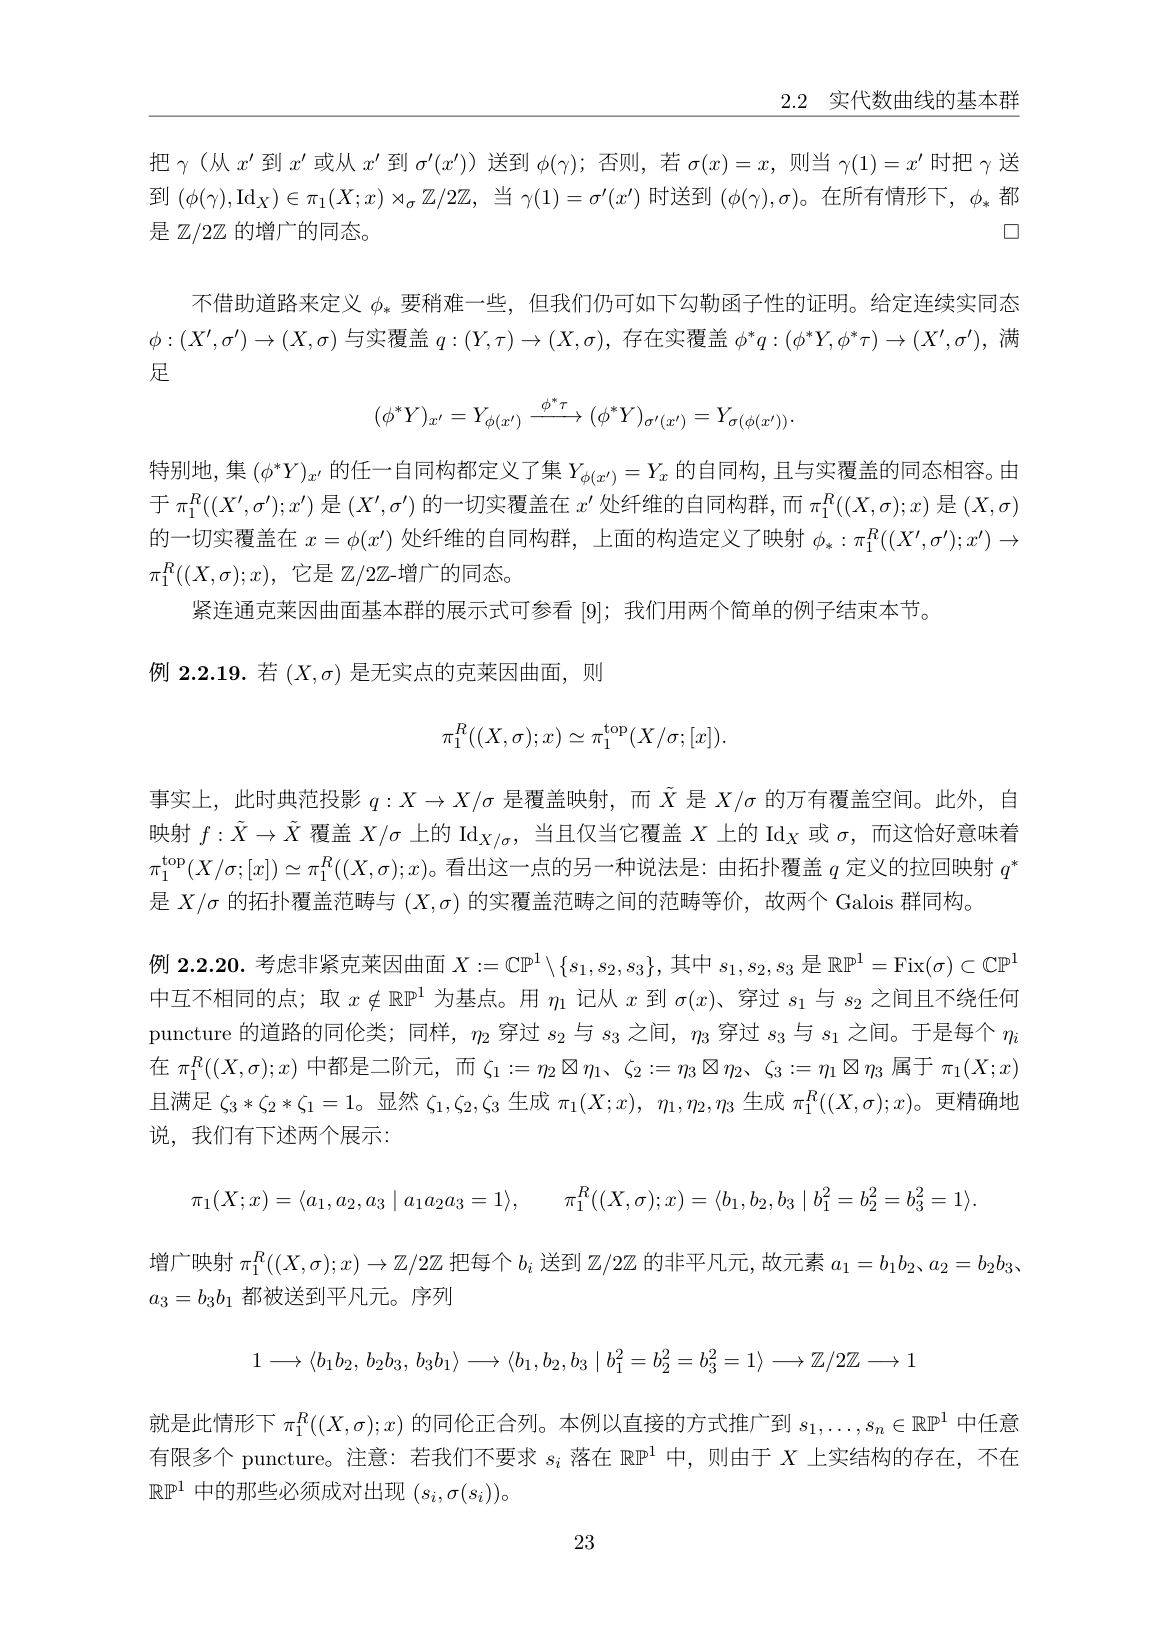
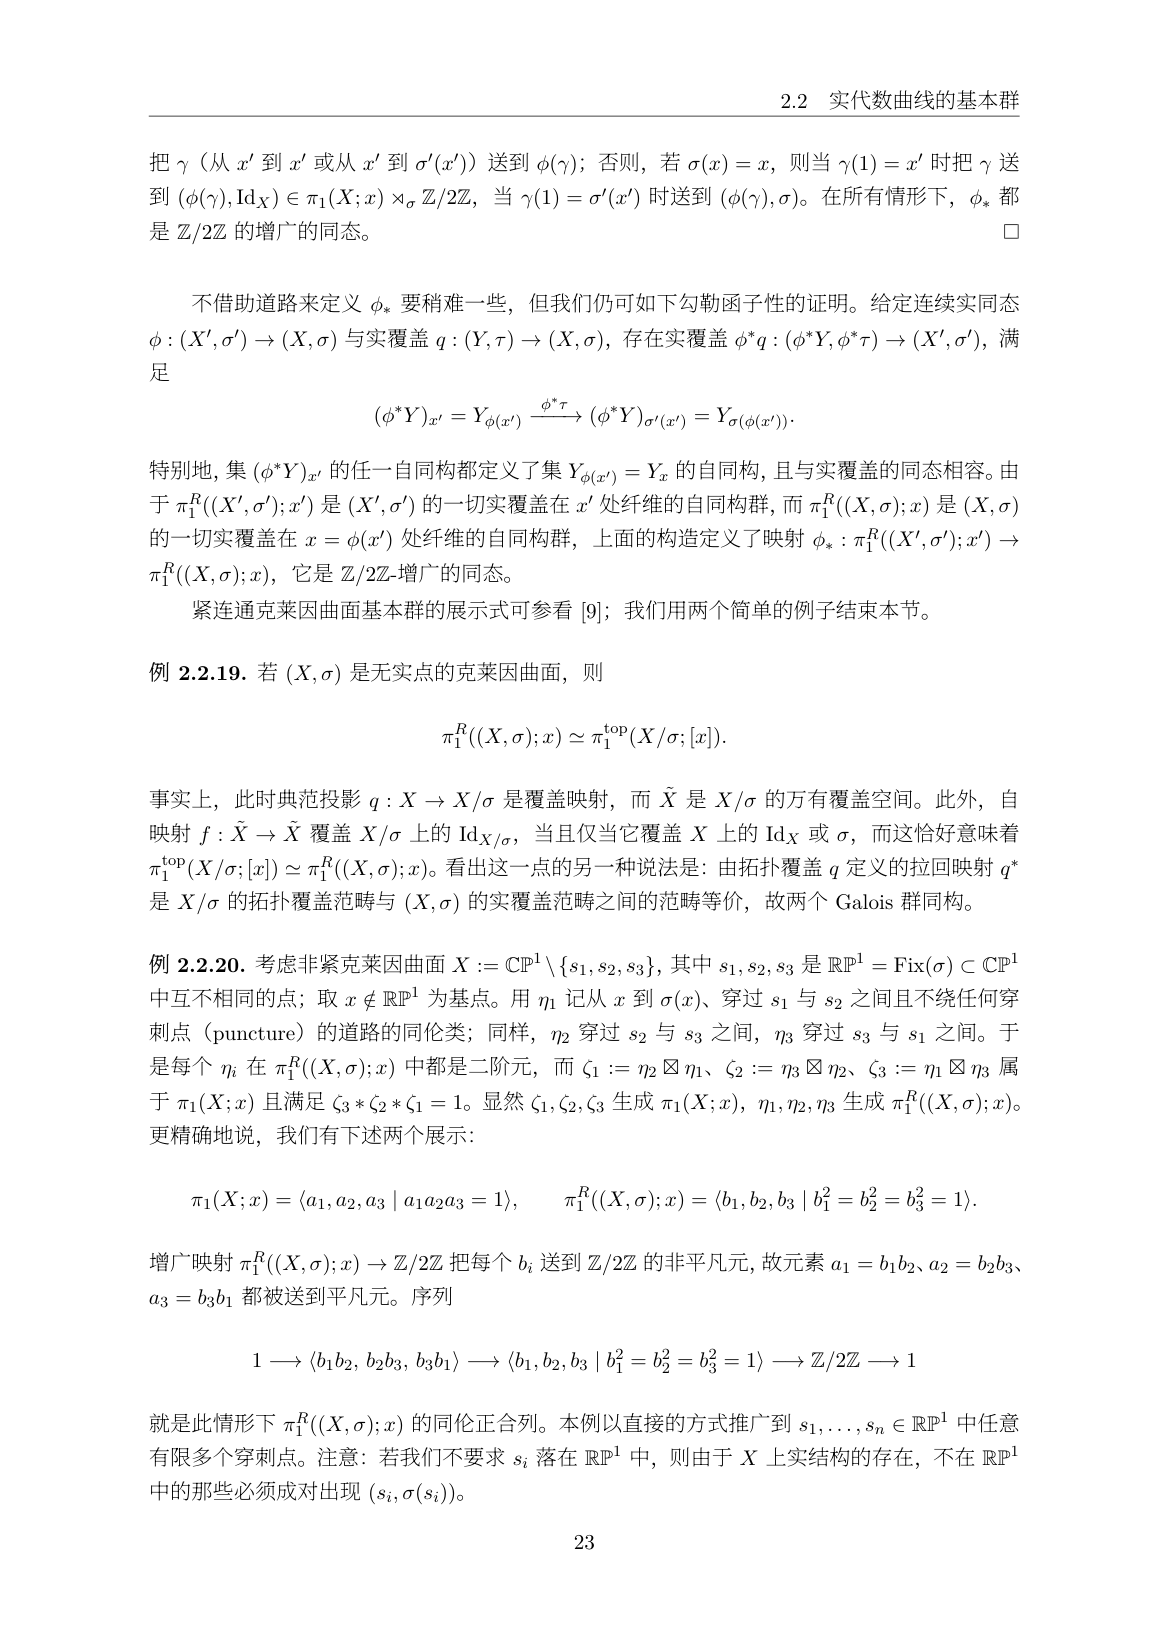
SY05-30: 例 2.2.20 的 puncture 改「穿刺点」；术语表补第 48 条
- ch02g.tex：首现「穿刺点（puncture）」，后文只用中文
- 术语表 +1（48 条），术语对照表重新生成
- 重编 0 error / 0 Overfull / 41 页；预览 p31 已更新并目视核对
- 投稿信息与交付报告、台账备注同步为 48 条

Changed region(s): [[0.1244, 0.5916, 0.9016, 0.7161], [0.1244, 0.8718, 0.8705, 0.9341]]

diff --git a/08_source_code/SY05-30_模空间的几何与量子化（Álvarez-Cónsul、Andersen、Mundet 编）/成品/SY05-30_交付报告.md b/08_source_code/SY05-30_模空间的几何与量子化（Álvarez-Cónsul、Andersen、Mundet 编）/成品/SY05-30_交付报告.md
@@ -15,7 +15,7 @@
 | --- | --- | --- |
 | 译文源码 | `源码/main.tex` + `源码/chapters/`（titlepage、preface、foreword、guide、ch02a–ch02j、bib） | 2,355 行 / 16 个文件 |
 | 编译产物 | `源码/main.pdf` | 41 页，A4，ctexbook + xelatex |
-| 术语表 | `工程文件/work/术语表.tsv`；可读版 `成品/术语对照表.md` | 47 条 |
+| 术语表 | `工程文件/work/术语表.tsv`；可读版 `成品/术语对照表.md` | 48 条 |
 | 疑点清单 | `工程文件/work/疑点清单.tsv` | 11 条，全部已解 |
 | 通读笔记 | `工程文件/work/通读笔记.md` | 全书主线 + 四章逐章要点 |
 | 校订日志 | `工程文件/校订日志.md` | 5 类修订 + 验收块 |
@@ -41,7 +41,7 @@ errors 0 | Overfull 0 | Underfull 1 | pages 41 | toc 16 entries | undefined 0
 1. **先通读后落笔**：通读笔记、疑点清单、术语表都先于第一句译文存在；第 2 章逐句细读，其余三章速读并出任务书。
 2. **公式逐符号核对**：每个公式回底本页面图像（150 dpi）核符号、上下标、花体；文字层公式一律不信。
 3. **原文笔误照排 + 译注**：本卷两处——定理 2.1.15 证明中 $f$ 的定义域（Q005）、命题 2.2.9 证明漏一个逆号（Q006），译文按本意排并在 `annote` 里说明。
-4. **术语先冻结**：47 条进 `术语表.tsv`，正文首现给「中文（English）」；`Real` 保留大写（Atiyah 专名），`Klein` 作「克莱因」。
+4. **术语先冻结**：48 条进 `术语表.tsv`，正文首现给「中文（English）」；`Real` 保留大写（Atiyah 专名），`Klein` 作「克莱因」。
 5. **译注可追溯**：`annote` 环境，末句给依据（底本页码 / 本库前作 / 明确标注「译者按（无外部依据）」）。
 
 ## 四、资料卡

diff --git a/08_source_code/SY05-30_模空间的几何与量子化（Álvarez-Cónsul、Andersen、Mundet 编）/工程文件/校订日志.md b/08_source_code/SY05-30_模空间的几何与量子化（Álvarez-Cónsul、Andersen、Mundet 编）/工程文件/校订日志.md
@@ -11,6 +11,7 @@
 | 3 | 6 条 Overfull，最宽 253pt | 长等式的 `\[ ... = ... = ... \]` 一行到底；`\Phi` 映射的公式横排过宽 | 三处等式链改 `aligned` 分行；`\Phi` 的公式改 `gathered` 两行 | `grep -c Overfull = 0` |
 | 4 | 同一术语两种写法：章标题「克莱因曲面」、小节标题「Klein 曲面」 | 译稿分批写，术语未回扫 | 统一「克莱因曲面」；人名「Klein」也作「克莱因」（Harnack 脚注处） | `grep -c Klein ch02*.tex` = 0 |
 | 5 | 1 条 Underfull（定义 2.3.3 的括号行） | 中英混排断行 | 不处理：badness 1337，视觉效果无异常，强改反而引入 Overfull | 目视第 33 页 |
+| 6 | 例 2.2.20 正文残留英文「puncture」 | 写译稿时未列进术语表，直接沿用了原文 | 改「穿刺点（puncture）」首次出现加英文、后文只用「穿刺点」；术语表补第 48 条 | 重编 0 error；`grep -c puncture ch02*.tex` 由 2 → 1（只剩首现夹注） |
 
 ## 编译验收（2026-11-24，xelatex 三遍）
 

diff --git a/08_source_code/SY05-30_模空间的几何与量子化（Álvarez-Cónsul、Andersen、Mundet 编）/成品/术语对照表.md b/08_source_code/SY05-30_模空间的几何与量子化（Álvarez-Cónsul、Andersen、Mundet 编）/成品/术语对照表.md
@@ -53,5 +53,6 @@
 | 45 | non-singular | 非奇异 | A | §2.1.1 |  |
 | 46 | Nullstellensatz | Nullstellensatz | I（不译） | §2.1.1 | 定理名保留原文 |
 | 47 | Spm (maximal spectrum) | Spm（极大谱） | I | §2.1.1 | 保留 Spm 记号 |
+| 48 | puncture | 穿刺点 | B | ex 2.2.20 | 首次出现加英文 |
 
-共 47 条。机读版：`工程文件/work/术语表.tsv`。
+共 48 条。机读版：`工程文件/work/术语表.tsv`。
